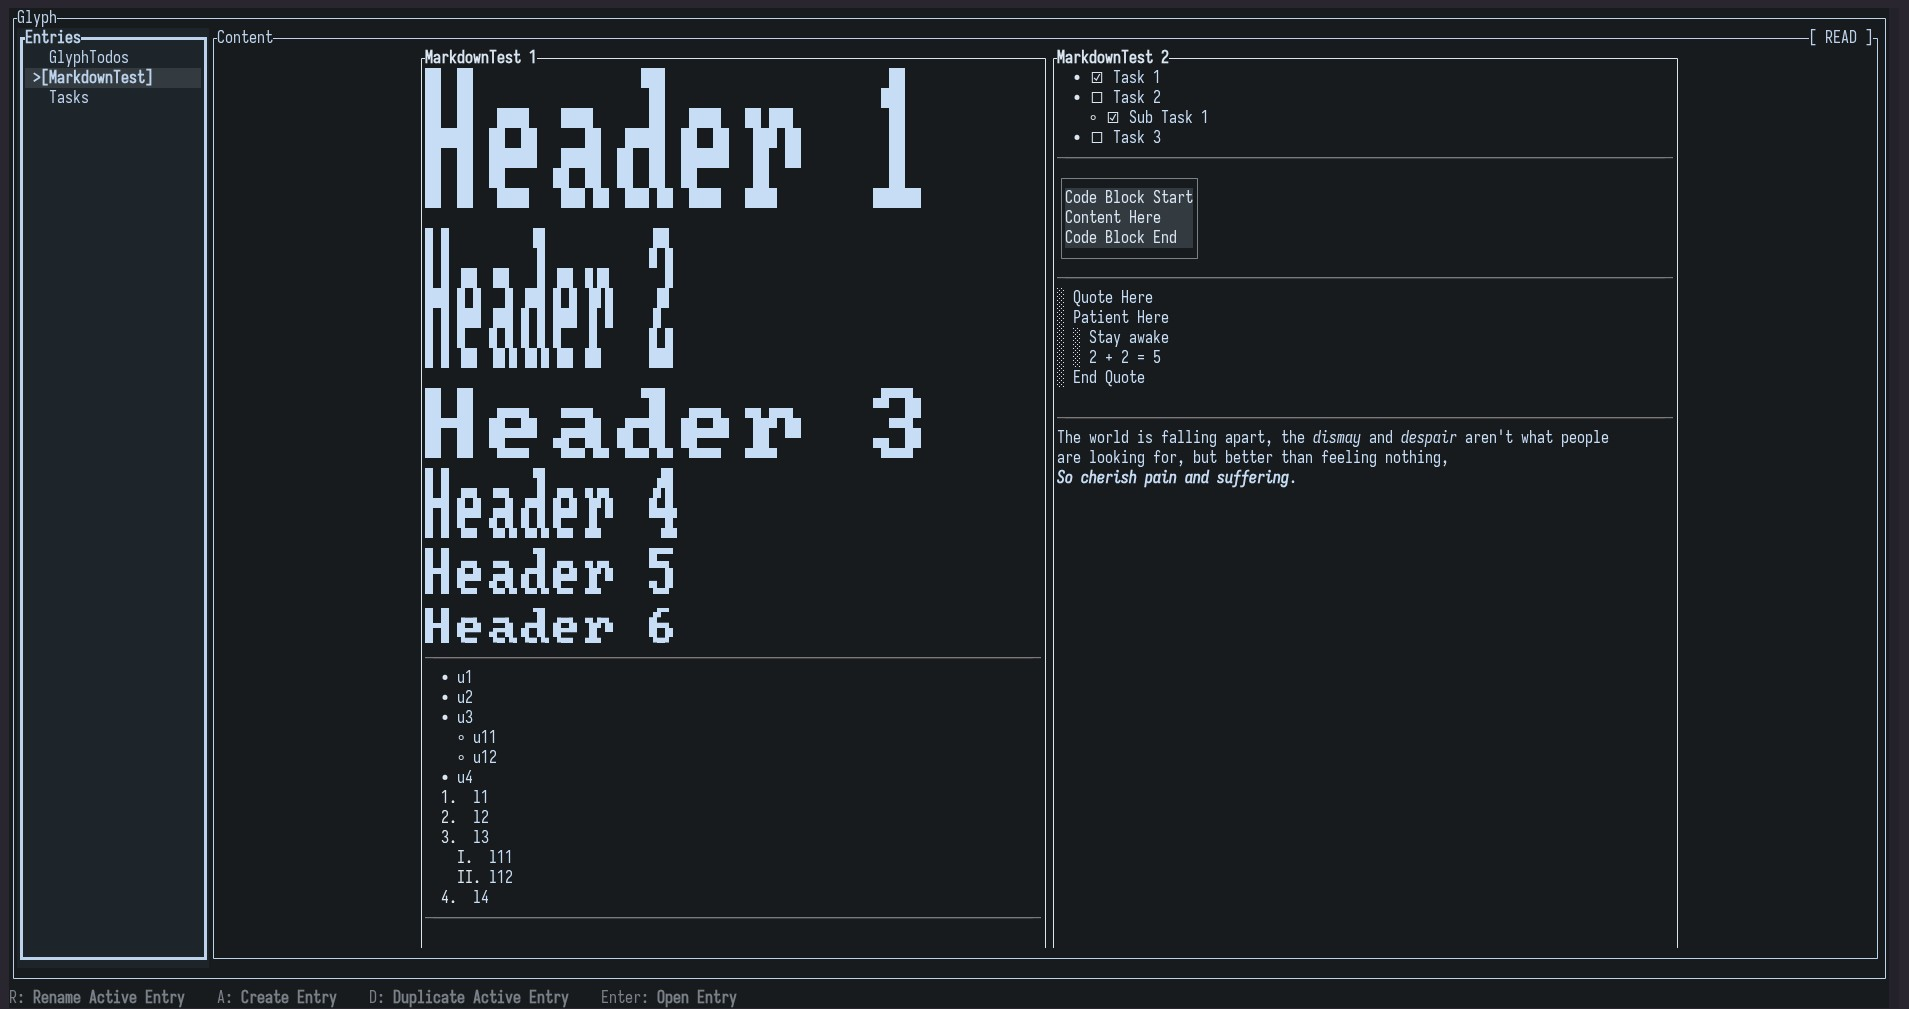
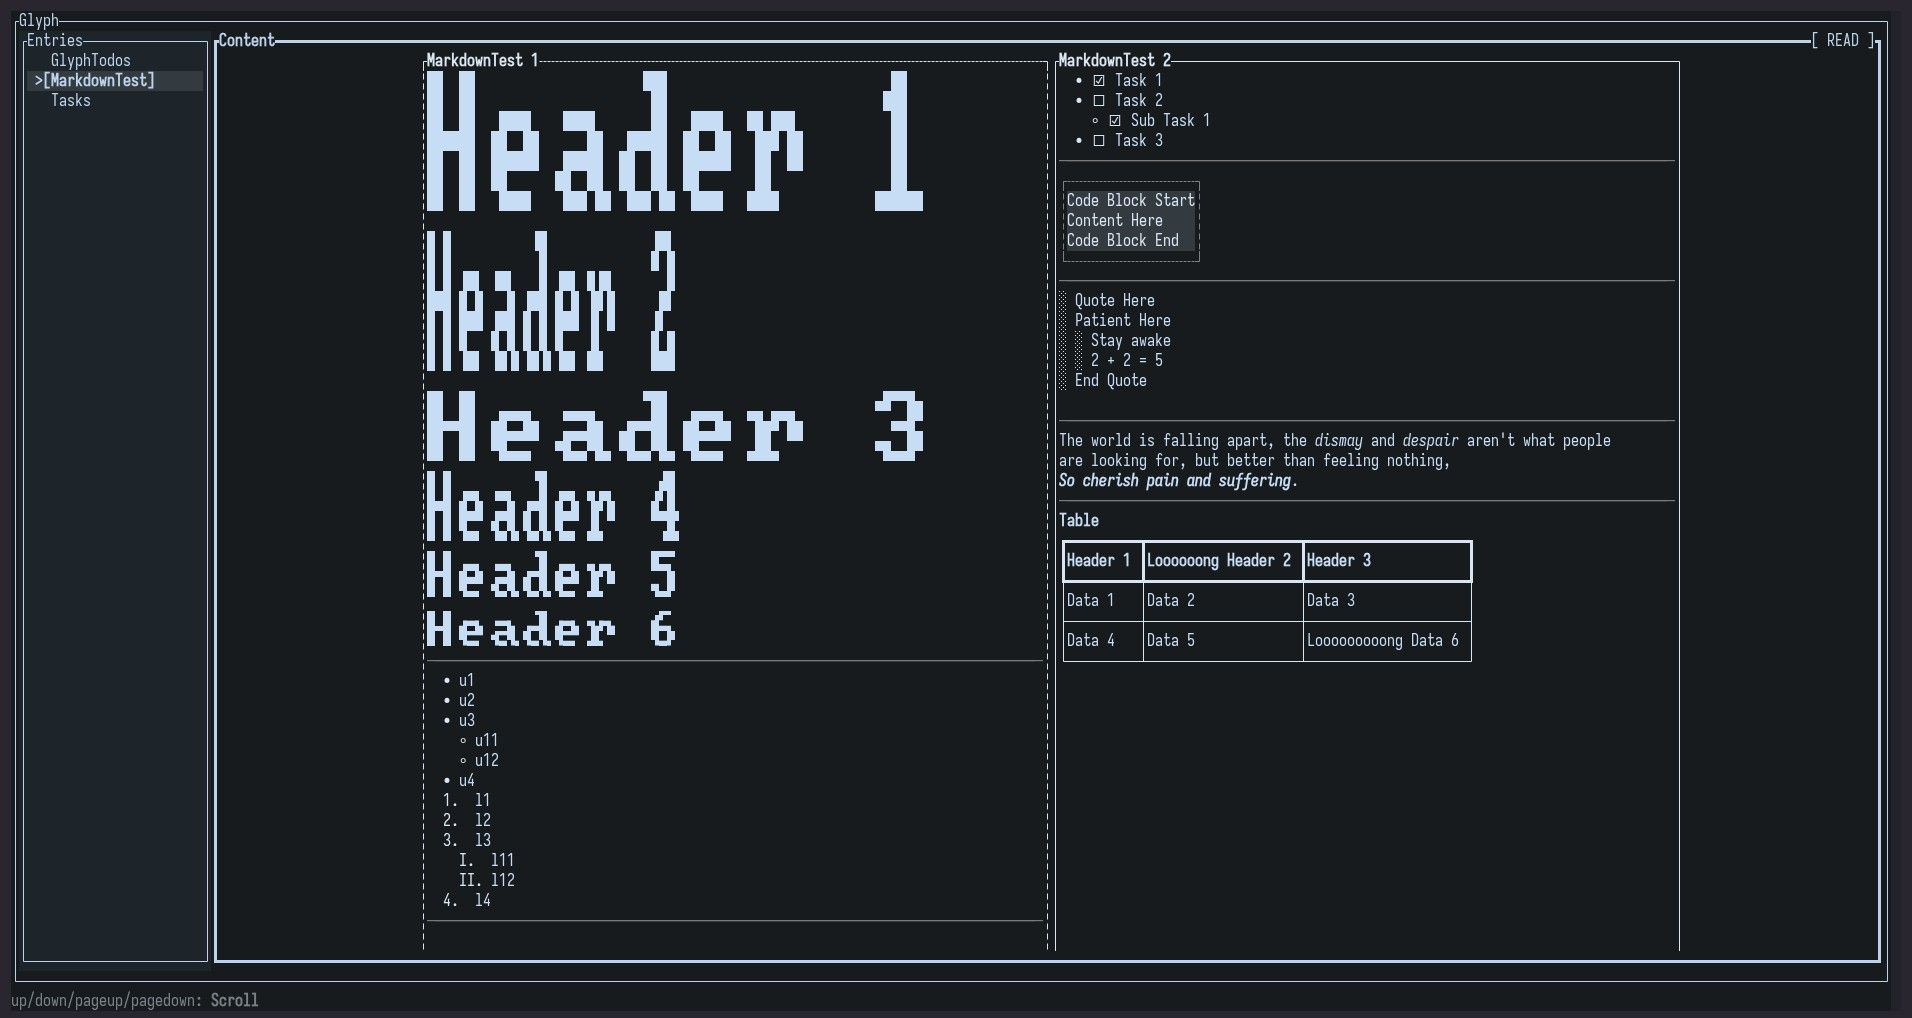
Updated README;

Changed region(s): [[0.0, 0.0, 0.989, 1.0], [0.3091, 0.1843, 0.3709, 0.2151], [0.34, 0.4301, 0.3709, 0.4609]]

diff --git a/README.md b/README.md
@@ -9,16 +9,10 @@ Powered by Ratatui
 - [x] Quote Block
 - [x] Code / Code Block
 - [ ] Image
-- [ ] Table
+- [x] Table
 
 ### Storage
 Currently using Rusqlite.
-
-### Test
-| H1                                   | H22222222222 | H333333 |
-|:-------------------------------------|:------------:|--------:|
-| aa<br/>a**aaa**aaaaaaaaaaaaaaaaaaaaa |      b       |       c |
-| d                                    | | |
 
 ### Built-in Editor
 The built-in editor is highly similar to vim, but with very limited features.
